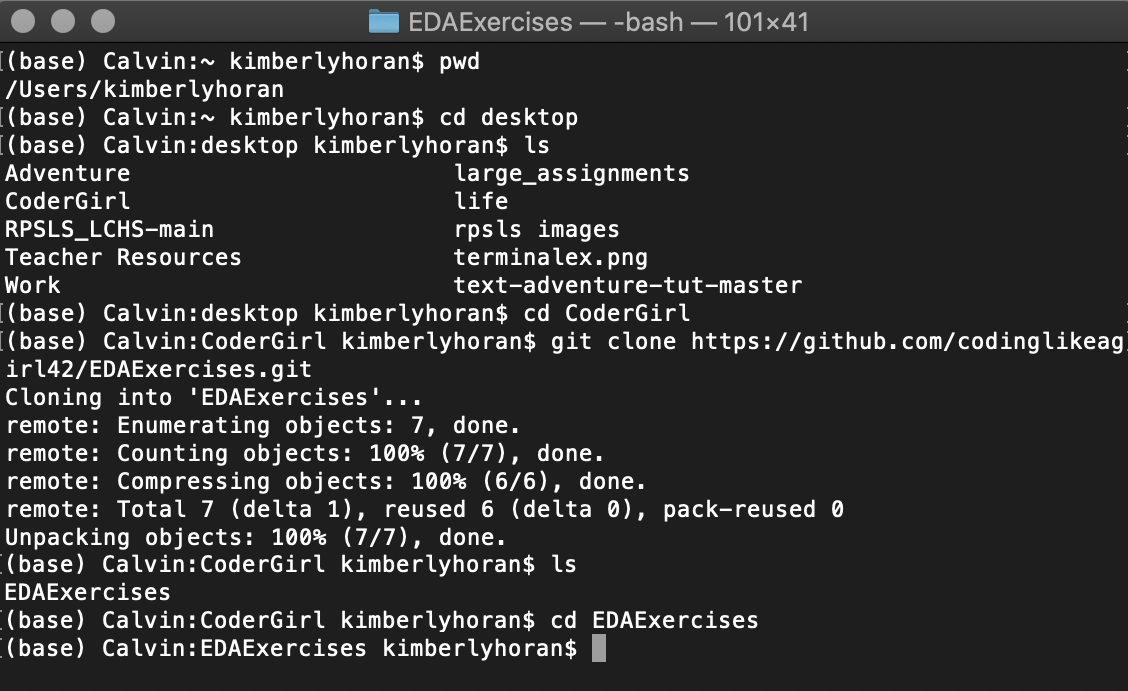
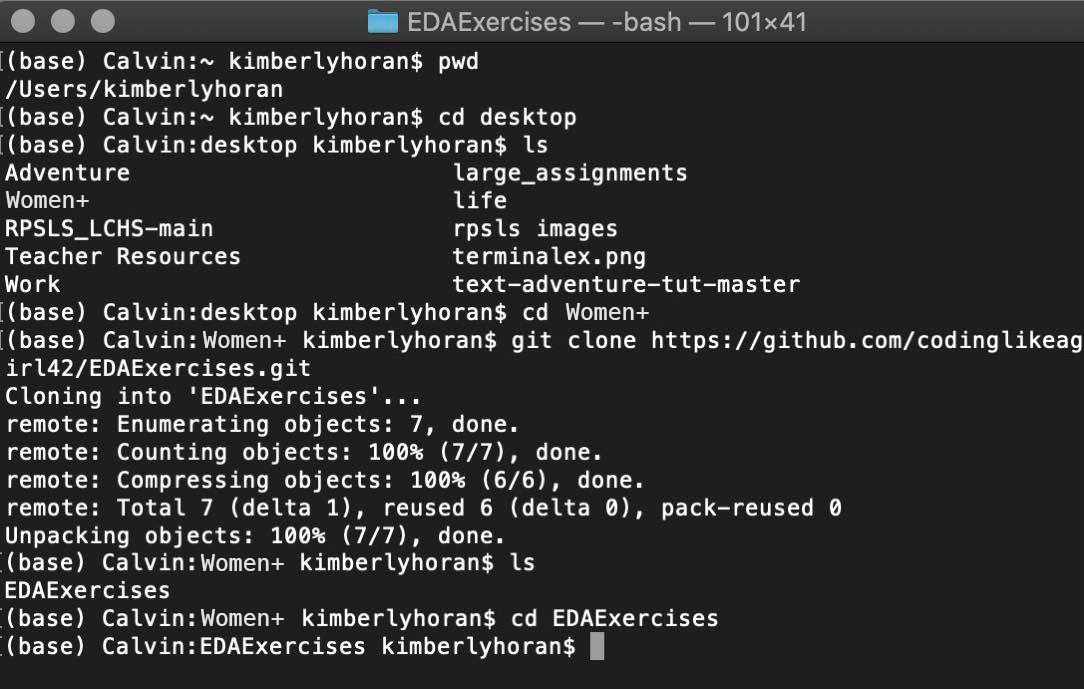
pr changes alt text, images, etc

Changed region(s): [[0.0, 0.0, 1.0, 0.9753]]

diff --git a/src/appendices/jupyter-notebooks/using-github-notebooks.rst b/src/appendices/jupyter-notebooks/using-github-notebooks.rst
@@ -20,7 +20,7 @@ When you click a link to the Git notebooks in the instructions, it will
 take you to the repository page and will look something like this.
 
 .. figure:: figures/gitrepo.png
-   :alt: A screenshot of where the fork button is on a Github repository.
+   :alt: The fork button on a Github repository.
 
 In the upper right corner your will see the fork button, when you click it 
 a pop-up with accounts to choose from appears:
@@ -28,19 +28,19 @@ a pop-up with accounts to choose from appears:
 .. figure:: figures/forkrepo.png
    :alt: A screenshot of a popup with github accounts.
 
-Choose your account and then you'll see:
+Choose your account:
 
 .. figure:: figures/forking1.png
-   :alt: A screenshot of the first screen you see after choosing your account.
+   :alt: Screen letting you know the forking process has started.
 
 .. figure:: figures/forking2.png
-   :alt: A screenshot of what you'll see when the forking process is over.
+   :alt: When the forking process is over your new repository page.
 
 #. Notice that instead of CarlyLanglois/EDAExercises the repo has your name now.  
 #. Next, click on the *Code* button.
 #. Copy the link to your repo.
 
-Next open the terminal on your computer and navigate to the folder where you will keep all your work for this class.  To make things easier I created a CoderGirl folder on my desktop.
+Next open the terminal on your computer and navigate to the folder where you will keep all your work for this class.  To make things easier I created a Women+ folder on my desktop.
 
 .. list-table:: Some command line prompts to help you:
   :align: left
@@ -48,15 +48,15 @@ Next open the terminal on your computer and navigate to the folder where you wil
 
   * - **Command**
     - **Description**
-  * - pwd
+  * - ``pwd``
     - Shows current directory, where you are.
-  * - ls
+  * - ``ls``
     - Lists everything in the current directory.
-  * - cd
+  * - ``cd``
     - Changes directory.
-  * - mkdir
+  * - ``mkdir``
     - Makes a new folder.
-  * - cd..
+  * - ``cd..``
     - cd space two period will take you one level up in the directory.
 
 I ran the following commands to navigate into and create a new folder(directory) for the assignment.
@@ -66,23 +66,23 @@ I ran the following commands to navigate into and create a new folder(directory)
   
   * - **Command Line Prompt**
     - **Reason Why**
-  * - pwd
+  * - ``pwd``
     - First I want to see where i was.
-  * - cd desktop
+  * - ``cd desktop``
     - Then switch directory to desktop.
-  * - ls
+  * - ``ls``
     - Ran ls to list contents.
-  * - cd Codergirl
-    - Switch to Codergirl folder.
-  * - git clone <github url> 
+  * - ``cd Women+``
+    - Switch to Women+ folder.
+  * - ``git clone <github url>``
     - (paste link you copied earlier)
-  * - ls
+  * - ``ls``
     - Ran ls to see if my project cloned
-  * - cd EDAExercises
+  * - ``cd EDAExercises``
     - Switch into my new project folder
 
 .. figure:: figures/terminalcloning.png
-   :alt: A screenshot of cloning a Github repo in terminal.
+   :alt: Cloning a Github repo in terminal.
 
 
 .. admonition:: Note
@@ -102,7 +102,7 @@ In the terminal, navigate to your project.
   Direct your attention to the photo below. In the top right-hand corner of your terminal window, you may notice that the current directory is displayed. This is a great way to easily check that you are in the right place! 
 
   .. figure:: figures/tipTerminal.png
-   :alt: A screenshot of terminal window showing location at the top.
+   :alt: Terminal window showing location of currant directory.
 
 There are three steps used to commit changes to your git repository and a final step to push up to your repository on github.
 
@@ -112,31 +112,31 @@ There are three steps used to commit changes to your git repository and a final 
   
   * - **Command Line Prompt**
     - **Reason Why**
-  * - git status
+  * - ``git status``
     - Gives us information about files that have been changed.
-  * - git add .
+  * - ``git add .``
     - Adds all the files that have changed to the commit, there is a space between add and the period(don't forget the period)
-  * - git commit -m “MESSAGE”
+  * - ``git commit -m “MESSAGE”``
     - Creates the new commit, the message should describe the changes made to the files.
-  * - git push
+  * - ``git push``
     - Pushes changes from your local repository up to your repository on GitHub.
-  * - git status
+  * - ``git status``
     - | Check to see your were successful. Should now say: 
       | Your branch is up to date with 'origin/master'. 
       | nothing to commit, working tree clean
 
 .. figure:: figures/firstcommit.png
-   :alt: A screenshot of a terminal window with a steps of a commit.
+   :alt: Terminal window executing the steps of a commit.
 
 
-Now when you check your github repository, you will see the update.
+When you check your github repository, you will see the update.
 
 .. figure:: figures/checkfirstcommit.png
-   :alt: A screenshot of Github repo with commit message.
+   :alt: Github repository with commit message.
 
 .. admonition:: note
 
-  See `this link <https://education.launchcode.org/intro-to-professional-web-dev/appendices/git/workflows.html>`__ for a more detailed explanation of Git.
+  For a more detailed explanation of Git, `use this link <https://education.launchcode.org/intro-to-professional-web-dev/appendices/git/workflows.html>`__.
 
 When you are ready to submit your assignment, copy the link to your repository on Github and 
 paste it into the submission box in Canvas and hit *Submit*.

diff --git a/src/assignments/final-project.rst b/src/assignments/final-project.rst
@@ -8,13 +8,14 @@ Overview of the Final Project
 
 The final project is an opportunity to showcase your analysis skills from EDA to 
 visualization and produce a project for your professional portfolio. The project 
-is broken into five checkpoints.
+is broken into five checkpoints and a final presentation.
 
 #. :ref:`Selecting your business issue and dataset<checkpoint1>`
 #. :ref:`EDA<checkpoint2>`
 #. :ref:`Cleaning data<checkpoint3>`
 #. :ref:`Manipulate, interpret, and visualize data<checkpoint4>`
 #. :ref:`Modelling data<checkpoint5>`
+#. :ref:`Final presentation<finalPresentation>`
 
 Examples of final projects to help you understand the requirements and complete your own.
 
@@ -34,15 +35,15 @@ climate change, local home prices, or average daily screen usage. The scale of y
 question can be as macro or as micro as you wish. 
 
 For inspiration, think about what brought you to this class in the first place. Is it to 
-get a new job? Maybe you’ll look for more Bureau of Labor datasets or ask a different 
-question of the Assignment 3 (9 to 5) data. Maybe you’ll want to dive into some data for 
-a field you’re interested in joining. Healthcare, finance, advertising, manufacturing, 
+get a new job? Maybe you'll look for more Bureau of Labor datasets or ask a different 
+question of the Assignment 3 (9 to 5) data. Maybe you'll want to dive into some data for 
+a field you're interested in joining. Healthcare, finance, advertising, manufacturing, 
 logistics, mapping, are just a few fields with growing need for analysts. You could also 
 just have a hobby that you want to learn more about, such as knitting or running. Choose 
 what fuels your interest. This can be an expansion or alternative analysis of a dataset 
-we’ve used in class so far.
+we've used in class so far.
 
-For some, your inspiration may come instead from doing a little data surfing. We’ve found most 
+For some, your inspiration may come instead from doing a little data surfing. We've found most 
 of the exercise and studio datasets from `Kaggle <https://www.kaggle.com/datasets>`__. 
 `Tableau <https://public.tableau.com/en-us/s/resources?qt-overview_resources=1#qt-overview_resources>`__ 
 lists some solid choices as well. You are not limited to just these resources for sourcing 
@@ -109,7 +110,7 @@ Before you submit your work, download the dataset to ensure that it will meet yo
 If your computer cannot download the dataset due to its size, try a similar dataset that 
 is smaller or download the individual files. Open up the file(s) using the default 
 application for your computer to see that there are in fact numbers in there and to see 
-how many rows are in the file so that you don’t run into an issue with Tableau later. 
+how many rows are in the file so that you don't run into an issue with Tableau later. 
 Tableau Public works best when the dataset is below 10 million rows.
 
 When you are confident in your choice, create a new document on your computer using your 
@@ -143,7 +144,7 @@ Submitting Your Work
 
 When finished with your EDA make sure to push your changes up to Github. Copy the link to your Github 
 repository and paste it into the submission box in Canvas for Graded Assignment #4: Checkpoint 2 
-and click submit.
+and click *Submit*.
 
 .. _checkpoint3:
 
@@ -179,7 +180,7 @@ Submitting Your Work
 
 When finished cleaning your data, make sure to push your changes up to Github including your 
 new cleaned dataset. Copy the link to your Github repository and paste it into the submission box 
-in Canvas for Graded Assignment #4: Checkpoint 3 and click submit.
+in Canvas for Graded Assignment #4: Checkpoint 3 and click *Submit*.
 
 .. _checkpoint4:
 
@@ -213,7 +214,7 @@ Submitting Your Work
 ~~~~~~~~~~~~~~~~~~~~
 
 When finished paste the link to your Tableau story into the submission box in Canvas for Graded 
-Assignment #4: Checkpoint 4 and click submit.
+Assignment #4: Checkpoint 4 and click *Submit*.
 
 .. _checkpoint5:
 
@@ -243,7 +244,11 @@ Submitting Your Work
 
 When finished with your linear regression model, make sure to push your changes up to Github. Copy the link to 
 your Github repository and paste it into the submission box in Canvas for Graded Assignment #4: Checkpoint 
-5 and click submit.
+5 and click *Submit*.
+
+.. _finalPresentation:
+
+:ref:`Back to Final Project Overview<finalProject>`
 
 Final Project Presentations
 ---------------------------
